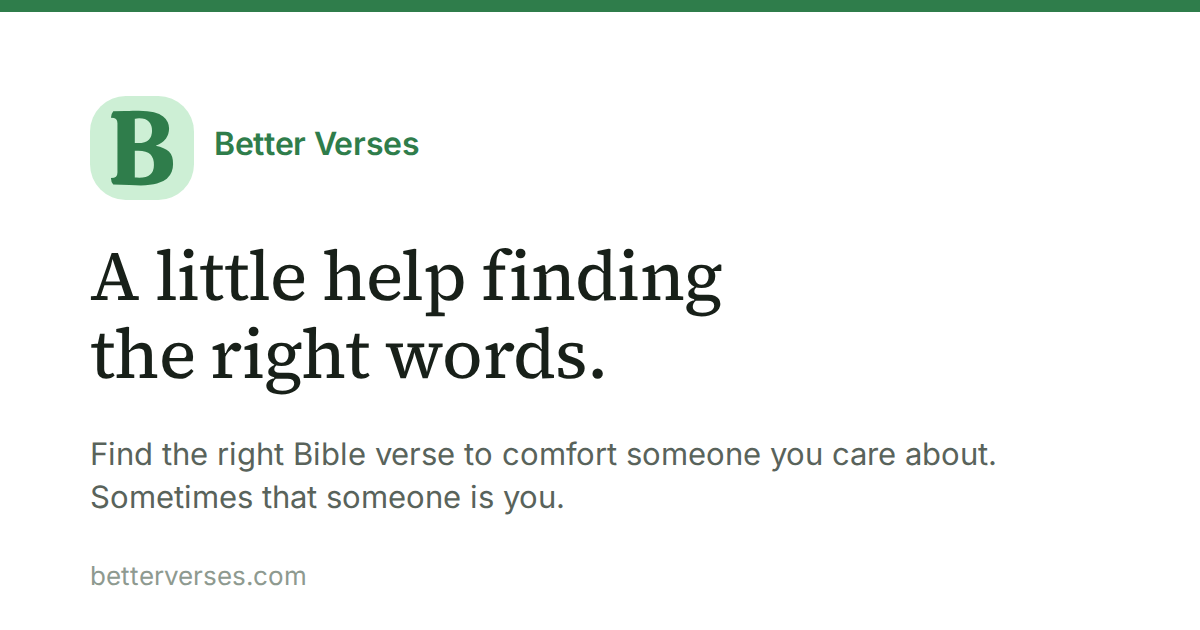
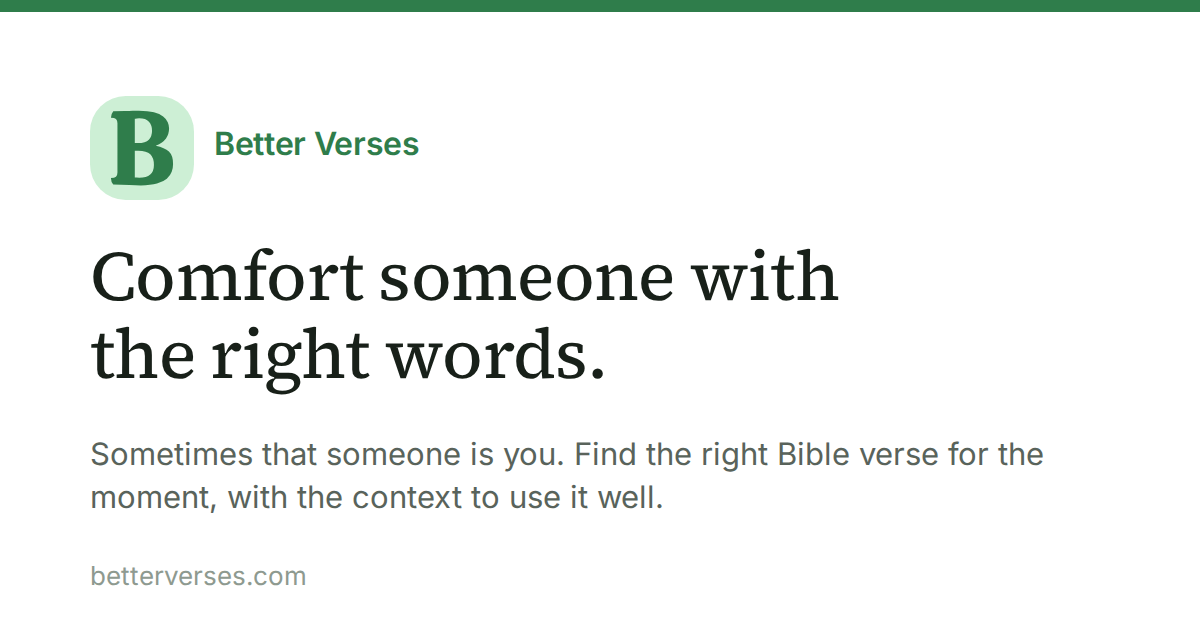
hero text

Changed region(s): [[0.0617, 0.6937, 0.8633, 0.8143], [0.0617, 0.3921, 0.7092, 0.5127]]

diff --git a/scripts/og-template.html b/scripts/og-template.html
@@ -9,4 +9,4 @@ h1{position:absolute;left:90px;top:236px;margin:0;font-family:SS;font-weight:450
 p{position:absolute;left:90px;top:432px;margin:0;font-size:31px;line-height:1.4;color:#59635B;width:960px}
 .u{position:absolute;left:90px;top:560px;font-size:26px;color:#8E9A90}
 </style></head><body><div class="bar"></div><svg class="mark" xmlns="http://www.w3.org/2000/svg" viewBox="0 0 64 64" width="104" height="104"><rect width="64" height="64" rx="22" fill="#CDEFD5"/><path d="M31.32 55.00Q28.28 55.00 24.27 54.74Q20.26 54.48 14.31 54.48Q12.88 52.74 12.88 50.41Q15.08 50.41 15.99 49.66Q16.89 48.92 16.89 47.11V16.70Q16.89 14.89 15.99 14.14Q15.08 13.40 12.88 13.40Q12.88 11.07 14.31 9.32Q18.90 9.32 21.62 9.23Q24.33 9.13 26.24 9.06Q28.15 9.00 30.09 9.00Q35.72 9.00 39.34 10.00Q42.97 11.01 45.00 12.59Q47.04 14.18 47.85 16.08Q48.66 17.99 48.66 19.87Q48.66 23.49 46.78 26.08Q44.91 28.67 40.44 30.54Q46.01 31.71 48.56 34.17Q51.12 36.63 51.12 41.80Q51.12 44.32 50.28 46.69Q49.44 49.05 47.27 50.92Q45.10 52.80 41.22 53.90Q37.34 55.00 31.32 55.00ZM29.51 28.99Q34.23 28.99 36.21 26.92Q38.18 24.85 38.18 21.36Q38.18 17.86 36.27 15.79Q34.36 13.72 30.22 13.72Q29.57 13.72 28.83 13.79Q28.09 13.85 27.57 13.98V28.86Q28.02 28.93 28.54 28.96Q29.06 28.99 29.51 28.99ZM30.29 50.28Q39.34 50.28 39.34 42.45Q39.34 38.05 37.11 35.85Q34.88 33.65 29.70 33.65Q29.19 33.65 28.57 33.68Q27.96 33.71 27.57 33.71V50.08Q28.02 50.15 28.73 50.21Q29.44 50.28 30.29 50.28Z" fill="#2F7D4B"/></svg><div class="name">Better Verses</div>
-<h1>A little help finding<br>the right words.</h1><p>Find the right Bible verse to comfort someone you care about. Sometimes that someone is you.</p><div class="u">betterverses.com</div></body></html>
+<h1>Comfort someone with<br>the right words.</h1><p>Sometimes that someone is you. Find the right Bible verse for the moment, with the context to use it well.</p><div class="u">betterverses.com</div></body></html>

diff --git a/src/styles/main.css b/src/styles/main.css
@@ -432,7 +432,7 @@ main { padding: 1.5rem 0 4rem; }
 .guide__why a { white-space: nowrap; }
 .btn-row { display: flex; flex-wrap: wrap; gap: .6rem; margin-top: 1.5rem; }
 
-.hero__sub { font-size: clamp(1.2rem, 1rem + .9vw, 1.6rem); font-weight: 600; line-height: 1.3; color: var(--ink); margin: 0 0 .35rem; letter-spacing: -.01em; max-width: 40ch; margin-bottom: .9rem; }
+.hero__sub { font-size: clamp(1.2rem, 1rem + .9vw, 1.6rem); font-weight: 400; line-height: 1.3; color: var(--ink); margin: 0 0 .35rem; letter-spacing: -.01em; max-width: 40ch; margin-bottom: .9rem; }
 .hero__line { font-family: var(--font-verse); font-size: clamp(1.15rem, 1rem + .8vw, 1.45rem); color: var(--primary-ink); margin: 0 0 .9rem; }
 
 .newsletter { background: var(--surface-high); border-radius: var(--r-lg); padding: 1.35rem 1.35rem 1.5rem; }

diff --git a/src/lib/pages.js b/src/lib/pages.js
@@ -57,8 +57,8 @@ export function home(ctx) {
   const d = daily.entry;
   const body = `
 <section class="hero" aria-labelledby="h-find">
-  <h1 id="h-find">A little help finding<br class="hero__br"> <em class="em">the right words.</em></h1>
-  <p class="hero__sub">Comfort someone you care about with the right Bible verse. Sometimes that someone is you.</p>
+  <h1 id="h-find">Comfort someone with<br class="hero__br"> the right words.</h1>
+  <p class="hero__sub">Sometimes that someone is you.</p>
   <p class="hero__dek">A friend in grief, a parent before surgery, a coworker starting over, or a night you can’t sleep. Search Bible verses for comfort, hope, and encouragement in plain English, or just start from the exact moment you’re in.</p>
   ${searchBox()}
 </section>
